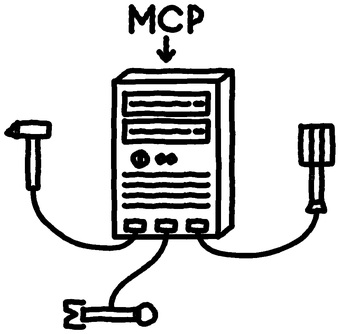
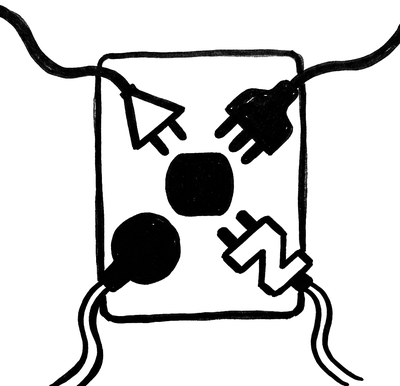
art: zine doodles batch 12 — six redraws (scan-pipeline, vuln-triage, teaching-agents, mcp-server, bitwarden-vault, quantum-error) (#467)

diff --git a/src/posts/2025-10-06-automated-security-scanning-pipeline.md b/src/posts/2025-10-06-automated-security-scanning-pipeline.md
@@ -18,8 +18,8 @@ I built an automated security pipeline that scans every commit with Grype, OSV-S
 
 **Why it matters:** Last year, I deployed a "simple" web app to my homelab. Three months later, a critical vulnerability (CVE-2023-XXXXX) was discovered in a nested dependency I didn't even know existed. The vulnerable code ran in my homelab for 90 days before I found out from a security scanner. Hope is not a security strategy.
 
-<div class="zine-doodle" aria-hidden="true" style="--doodle: url('/assets/doodles/scan-pipeline.png'); width: min(240px, 62%); aspect-ratio: 340/328; margin: 2rem auto 0.5rem;"></div>
-<p class="hand-note" style="text-align: center; display: block;">everything through the scanner</p>
+<div class="zine-doodle" aria-hidden="true" style="--doodle: url('/assets/doodles/scan-pipeline.png'); width: min(240px, 62%); aspect-ratio: 340/332; margin: 2rem auto 0.5rem;"></div>
+<p class="hand-note" style="text-align: center; display: block;">each pass finer than the last</p>
 
 ## Automated Security Pipeline Architecture
 

diff --git a/src/posts/2025-07-29-building-mcp-standards-server.md b/src/posts/2025-07-29-building-mcp-standards-server.md
@@ -21,7 +21,7 @@ But here's the thing: personal projects are where we learn by overdoing it, by m
 
 **The Numbers**: Version 1 (200 lines, 2 hours, functional) → Version 4 (6,000+ lines, 3 weeks, questionably necessary). Redis cache with 30-minute TTL for documentation that changes once a month. Vector search implementation for 50 markdown files. Six language-specific analyzers for standards that are 90% YAML. This isn't a success story: it's a cautionary tale about knowing when good enough is perfect.
 
-<div class="zine-doodle" aria-hidden="true" style="--doodle: url('/assets/doodles/mcp-server.png'); width: min(240px, 62%); aspect-ratio: 340/334; margin: 2rem auto 0.5rem;"></div>
+<div class="zine-doodle" aria-hidden="true" style="--doodle: url('/assets/doodles/mcp-server.png'); width: min(240px, 62%); aspect-ratio: 400/386; margin: 2rem auto 0.5rem;"></div>
 <p class="hand-note" style="text-align: center; display: block;">one server, many tools</p>
 
 ## When Good Ideas Get Complicated

diff --git a/src/posts/2025-11-12-quantum-error-correction-willow-breakthrough.md b/src/posts/2025-11-12-quantum-error-correction-willow-breakthrough.md
@@ -10,8 +10,8 @@ Google just crossed the quantum computing Rubicon. Their Willow chip achieved so
 
 For the first time in quantum computing history, we've proven that error correction can work at scale. This isn't just an incremental improvement. This is the moment quantum computing became inevitable.
 
-<div class="zine-doodle" aria-hidden="true" style="--doodle: url('/assets/doodles/quantum-error.png'); width: min(230px, 60%); aspect-ratio: 300/281; margin: 2rem auto 0.5rem;"></div>
-<p class="hand-note" style="text-align: center; display: block;">catching the flipped qubit</p>
+<div class="zine-doodle" aria-hidden="true" style="--doodle: url('/assets/doodles/quantum-error.png'); width: min(230px, 60%); aspect-ratio: 300/293; margin: 2rem auto 0.5rem;"></div>
+<p class="hand-note" style="text-align: center; display: block;">many qubits guarding one</p>
 
 ## The Problem That Almost Killed Quantum Computing
 

diff --git a/src/posts/2024-09-09-embodied-ai-teaching-agents.md b/src/posts/2024-09-09-embodied-ai-teaching-agents.md
@@ -20,7 +20,7 @@ That simulation experience crystallized something I'd been thinking about for ye
 
 The sim-to-real gap is probably the hardest unsolved problem in robotics, but maybe the human-robot communication gap is just as critical. Recent breakthrough research is finally addressing this, and after my Isaac Sim failures, the implications feel deeply personal.
 
-<div class="zine-doodle" aria-hidden="true" style="--doodle: url('/assets/doodles/teaching-agents.png'); width: min(190px, 52%); aspect-ratio: 280/402; margin: 2rem auto 0.5rem;"></div>
+<div class="zine-doodle" aria-hidden="true" style="--doodle: url('/assets/doodles/teaching-agents.png'); width: min(190px, 52%); aspect-ratio: 400/389; margin: 2rem auto 0.5rem;"></div>
 <p class="hand-note" style="text-align: center; display: block;">a robot that knows to ask</p>
 
 ## The Problem with Assumption-Making Robots

diff --git a/src/posts/2025-09-01-self-hosted-bitwarden-migration-guide.md b/src/posts/2025-09-01-self-hosted-bitwarden-migration-guide.md
@@ -16,7 +16,7 @@ tags:
 
 **BLUF:** Cloud password manager breaches happen every few years. When LastPass disclosed their 2022 incident, I moved 500+ passwords to self-hosted Bitwarden. Two years later, I have better security, zero vendor lock-in, and complete data ownership. Here's how to migrate safely.
 
-<div class="zine-doodle" aria-hidden="true" style="--doodle: url('/assets/doodles/bitwarden-vault.png'); width: min(200px, 55%); aspect-ratio: 400/382; margin: 2rem auto 0.5rem;"></div>
+<div class="zine-doodle" aria-hidden="true" style="--doodle: url('/assets/doodles/bitwarden-vault.png'); width: min(200px, 55%); aspect-ratio: 400/388; margin: 2rem auto 0.5rem;"></div>
 <p class="hand-note" style="text-align: center; display: block;">your passwords, in a vault you own</p>
 
 ## Self-Hosted Password Management Architecture

diff --git a/src/posts/2025-07-15-vulnerability-management-scale-open-source.md b/src/posts/2025-07-15-vulnerability-management-scale-open-source.md
@@ -33,7 +33,7 @@ Open source vulnerability management can match enterprise capabilities at zero l
 **Why this matters:** Commercial platforms (Qualys, Rapid7, Tenable) cost $100K+ annually. Open source alternatives, when properly integrated, deliver equivalent capabilities.
 
 
-<div class="zine-doodle" aria-hidden="true" style="--doodle: url('/assets/doodles/vuln-triage.png'); width: min(210px, 58%); aspect-ratio: 300/361; margin: 2rem auto 0.5rem;"></div>
+<div class="zine-doodle" aria-hidden="true" style="--doodle: url('/assets/doodles/vuln-triage.png'); width: min(210px, 58%); aspect-ratio: 340/340; margin: 2rem auto 0.5rem;"></div>
 <p class="hand-note" style="text-align: center; display: block;">many bugs, one that matters</p>
 
 ## Vulnerability Management Architecture
